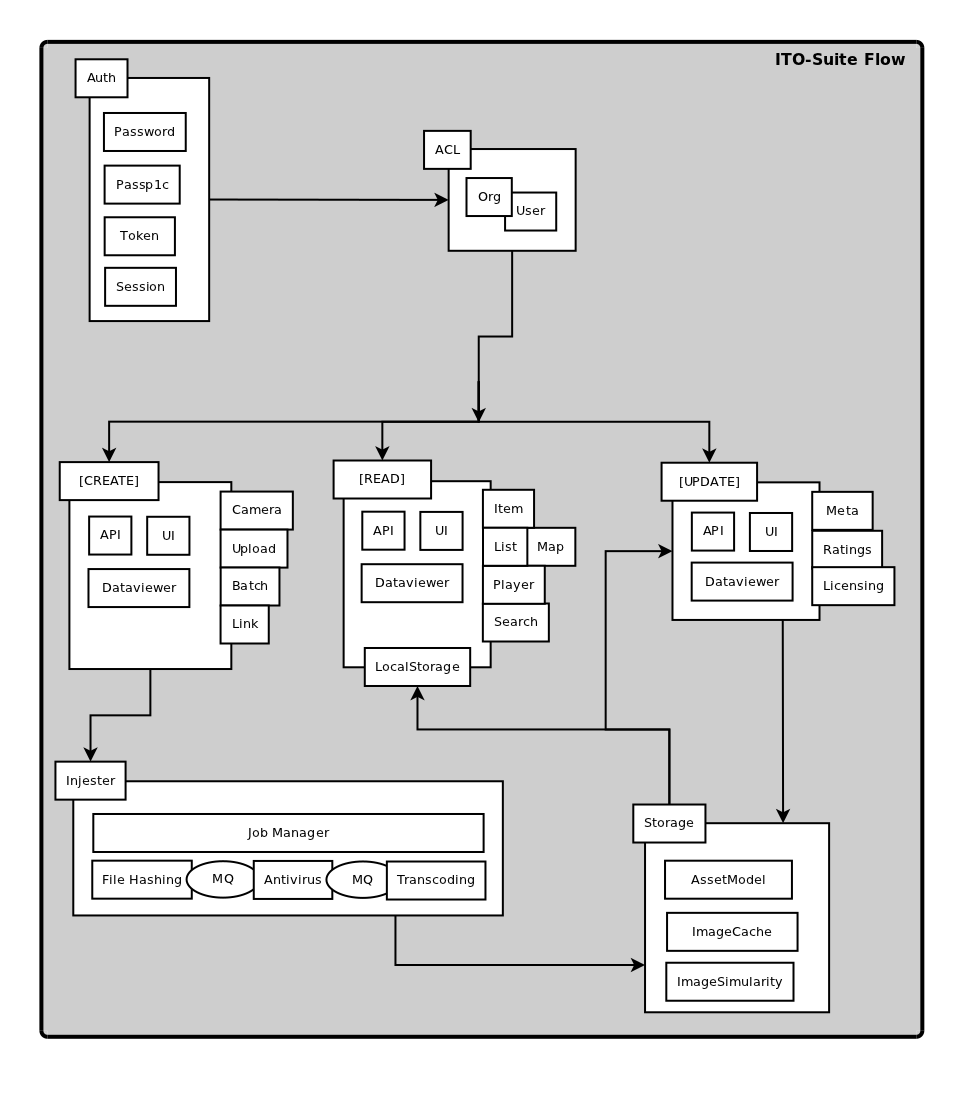
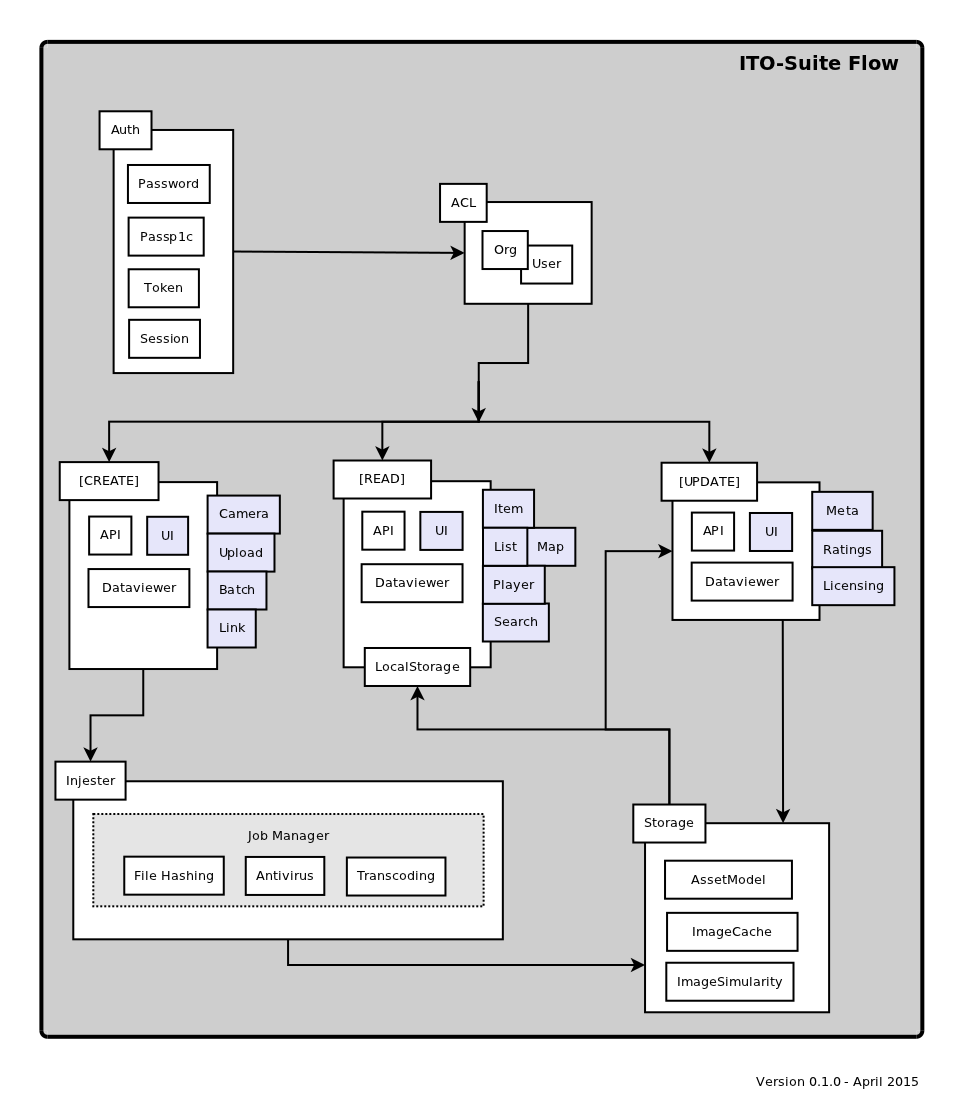
site update

diff --git a/index.html b/index.html
@@ -10,7 +10,17 @@
     <!--[if lt IE 9]>
     <script src="//html5shiv.googlecode.com/svn/trunk/html5.js"></script>
     <![endif]-->
-    <title>ITO Suite by ito-suite</title>
+    <title>ITO Suite</title>
+	<style>
+		h3 {
+			color:#c6fedc;
+			text-shadow: 0px 0px 1px #000;
+			font-size:1.6em;
+			font-weight:800;
+			margin: 0 0 5px -18px;
+			letter-spacing: 1px;
+		}
+	</style>
   </head>
 
   <body>
@@ -18,41 +28,81 @@
       <div class="inner">
 
         <header>
-          <h1>ITO Suite</h1>
+   		  <img src="https://avatars1.githubusercontent.com/u/11889554?v=3&amp;s=80" alt="logo" style="float:left">
+          <h1 style="margin:9px 0 0 0"> &nbsp;Suite</h1>
         </header>
 
-        <section id="downloads" class="clearfix">
-          <a href="https://github.com/ito-suite" id="view-on-github" class="button"><span>View on GitHub</span></a>
-        </section>
 
         <hr>
 
         <section id="main_content">
           <h3>
-<a id="welcome-to-ito-suite" class="anchor" href="#welcome-to-ito-suite" aria-hidden="true"><span class="octicon octicon-link"></span></a>Welcome to ITO Suite</h3>
+<a id="welcome-to-ito-suite" class="anchor" href="#welcome-to-ito-suite" aria-hidden="true"><span class="octicon octicon-link"></span></a>ITO Suite</h3>
 
-<p><img src="https://avatars1.githubusercontent.com/u/11889554?v=3&amp;s=80" alt="logo"></p>
 
-<p>ITO is a Media Management Framework in private development since 2013. It has been used simply as an archive, as a backend for Internet based art projects and is now in accelerated development for several AI enhanced photo mapping applications with archive backends.</p>
 
-<ul>
-<li>Linux (modern kernel)</li>
-<li>git, npm, bower, gulp</li>
-<li>node.js</li>
-<li>MongoDB</li>
-<li>RabbitMQ, socket.io</li>
-<li>Apache Solr Search</li>
-<li>CLI to:
--- graphicsmagick, ffmpeg, ps, clamav, etc.</li>
-</ul>
+<p>The ITO Suite is a Media Management Framework in development since 2013. It has been used simply as an archive, as a backend for Internet based art projects and is now being modularized for several AI enhanced photo mapping applications with archive backends:
 
+	<li>oz graffiti mapping project</li>
+	<li>leerstandsmelder.de</li>
+
+</p>
+
+
+<h3>
+Stack
+</h3>
 <p>
-<img src="/doc/ito-suite_flow.png" alt="flow">
+	<ul>
+		<li>Linux (modern kernel)</li>
+		<li>git, npm, bower, gulp</li>
+		<li>node.js</li>
+		<li>MongoDB</li>
+		<li>RabbitMQ, socket.io</li>
+		<li>Apache Solr Search</li>
+		<li>CLI to: graphicsmagick, ffmpeg, ps, clamav, etc.</li>
+		<li>Angular</li>
+	</ul>
+</p>
+<h3>
+Module List
+</h3>
+<p>
+	<li>Job Queue</li>
+	<li>Auth</li>
+	<li>ACL</li>
+	<li>API Client</li>
+	<li>Ingester</li>
+	<li>Message Queue</li>
+	<li>Storage</li>
+	<li>Dataviewer</li>
+	<li>Search</li>
+	<li>Map</li>
+	<li>Mobile Camera</li>
+	<li>Licensing</li>
+	<li>File Hashing</li>
+	<li>Antivirus</li>
+	<li>Transcoding</li>
+	<li>Image Processing</li>
+	<li>Ratings</li>
+	<li>Image Similarity</li>
+</p>
+
+
+
+
+<h3>
+Flow
+</h3>
+<p>
+<img src="./doc/ito-suite_flow.png" alt="flow">
 </p>
         </section>
 
         <footer>
-
+		    <section id="downloads" class="clearfix">
+		      <a href="https://github.com/ito-suite" id="view-on-github" class="button"><span>View on GitHub</span></a>
+		    </section>
         </footer>
 
         
